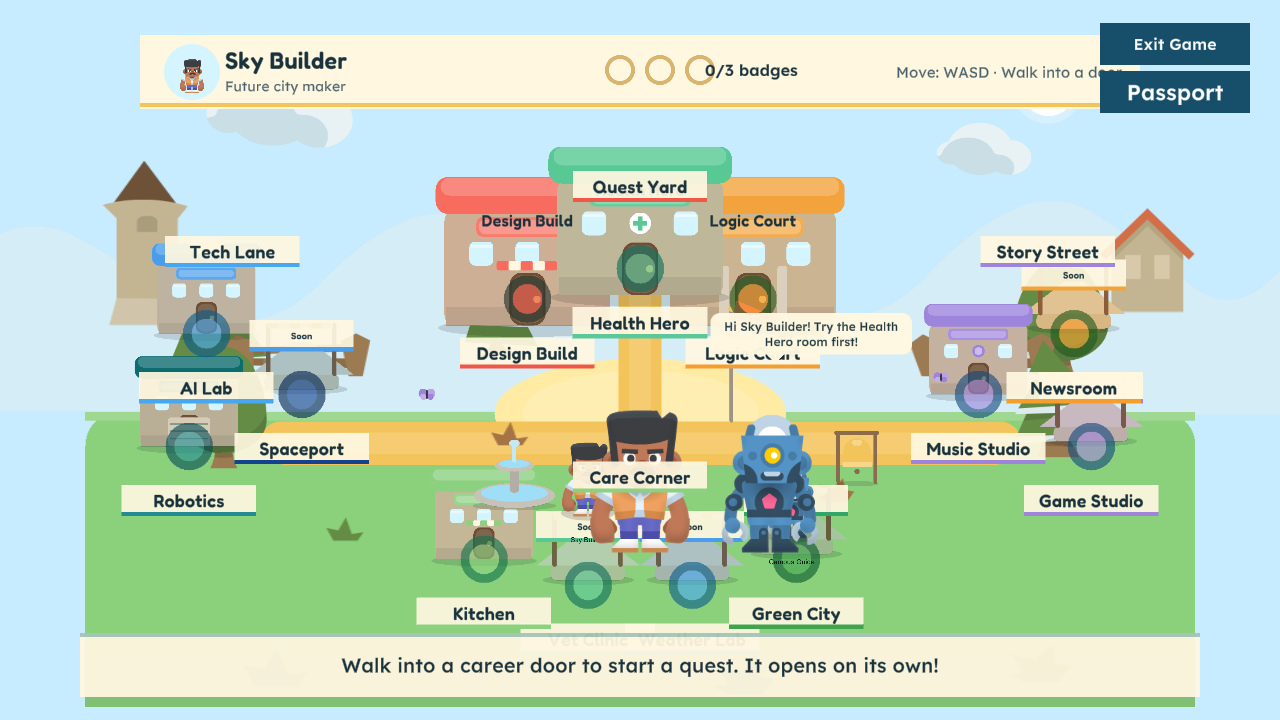
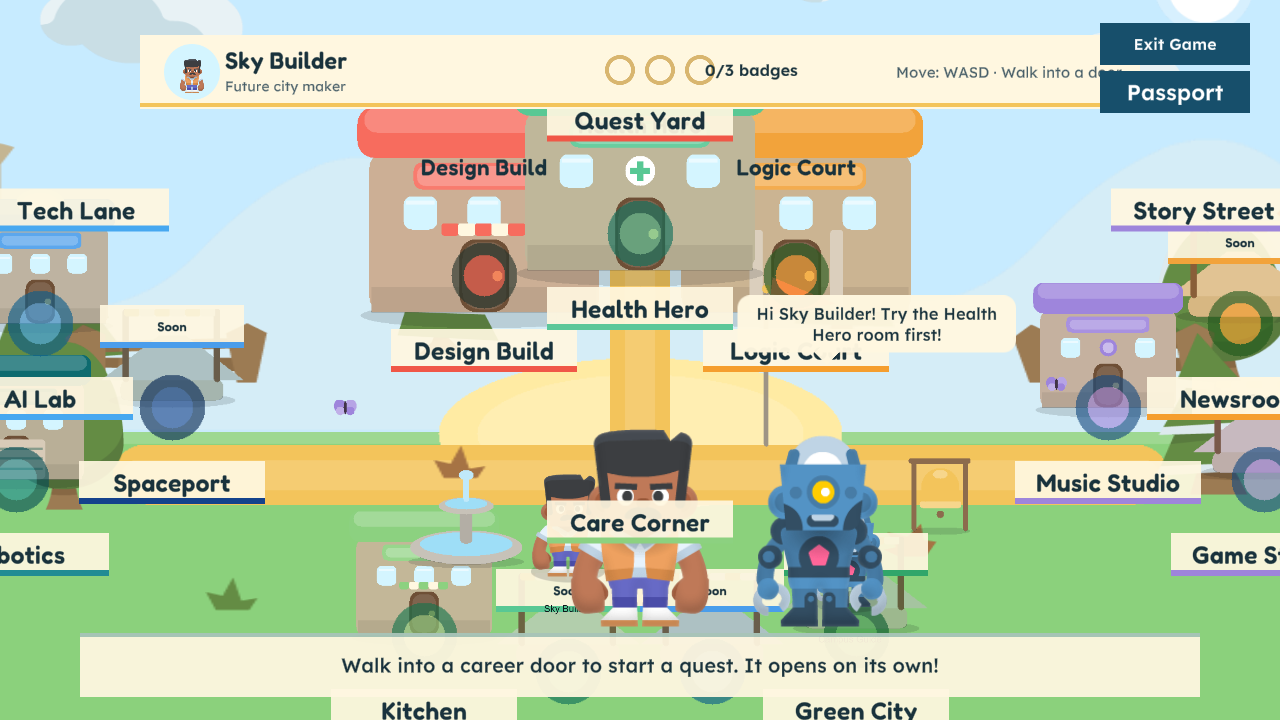
@ feat(campus): zoom-in + follow camera so the campus reads bigger (design review #1)
Players reported the environment was "too small to fit everything on the
screen in a practical way." The hub camera framed the whole 12.4-wide,
13-door campus at once (orthoSize 4.15, near-fixed: player.x * 0.2 clamped to
+-0.8), so every station and label shrank to fit one screen.

CameraFollowSettings.HubDefault now zooms in (orthoSize 4.15 -> 3.0, ~40%
bigger content) and tracks the player 1:1 across the campus (factor 0.2 -> 1.0,
clamp 0.8 -> 3.5, lerp 4 -> 5). CampusWorldBuilder.AddGround widens the grass
(11.2 -> 18, taller too) so the panned, zoomed view never reveals
sky-colored void at the edges; the +-3.5 clamp keeps the view inside it.

Verified: campus spawn capture shows a larger, player-centered campus with the
Quest Yard core readable, districts legible, edge stations to walk toward, and
grass filling every edge (no void). Combined EditMode 237/237, PlayMode
229/229.

Note: CameraDirectorPlayModeTests had two cases that hard-pin the hub framing
constants ("legacy framing preserved"); re-baselined their numeric
expectations to the new framing (test structure/behavior unchanged) since the
framing changed intentionally.

Known follow-up: horizontal follow only — the bottom Care Corner row sits low
near the instruction strip; vertical follow would frame it cleanly when
walking down (left for a polish pass / the #3-#4 plan).

@

diff --git a/Assets/_CareerQuest/Tests/PlayMode/CameraDirectorPlayModeTests.cs b/Assets/_CareerQuest/Tests/PlayMode/CameraDirectorPlayModeTests.cs
@@ -69,21 +69,21 @@ namespace CareerQuest.Tests
 
             Assert.That(director.ActiveMode, Is.EqualTo(CameraDirectorMode.Follow));
             Assert.That(director.IsRestored, Is.False);
-            Assert.That(director.Camera.orthographicSize, Is.EqualTo(4.15f).Within(0.001f));
+            Assert.That(director.Camera.orthographicSize, Is.EqualTo(3.0f).Within(0.001f));
 
             TickMany(director, 120, 0.05f);
             var position = director.Camera.transform.position;
-            Assert.That(position.x, Is.EqualTo(0.8f).Within(0.01f), "follow should clamp at the hub's +x edge");
+            Assert.That(position.x, Is.EqualTo(3.5f).Within(0.01f), "follow should clamp at the hub's +x edge");
             Assert.That(position.y, Is.EqualTo(0f).Within(0.001f));
             Assert.That(position.z, Is.EqualTo(-10f).Within(0.001f));
 
             target.transform.position = new Vector3(-10f, 0f, 0f);
             TickMany(director, 120, 0.05f);
-            Assert.That(director.Camera.transform.position.x, Is.EqualTo(-0.8f).Within(0.01f), "follow should clamp at the hub's -x edge");
+            Assert.That(director.Camera.transform.position.x, Is.EqualTo(-3.5f).Within(0.01f), "follow should clamp at the hub's -x edge");
 
             target.transform.position = new Vector3(2f, 0f, 0f);
             TickMany(director, 120, 0.05f);
-            Assert.That(director.Camera.transform.position.x, Is.EqualTo(0.4f).Within(0.01f), "inside the clamp the camera tracks x * 0.2");
+            Assert.That(director.Camera.transform.position.x, Is.EqualTo(2f).Within(0.01f), "inside the clamp the camera tracks the player x 1:1");
             yield return null;
         }
 
@@ -212,11 +212,11 @@ namespace CareerQuest.Tests
 
             Assert.That(director.ActiveMode, Is.EqualTo(CameraDirectorMode.Follow));
             Assert.That(director.Camera.orthographic, Is.True);
-            Assert.That(director.Camera.orthographicSize, Is.EqualTo(4.15f).Within(0.001f), "legacy hub framing size preserved");
+            Assert.That(director.Camera.orthographicSize, Is.EqualTo(3.0f).Within(0.001f), "campus framing size (zoomed-in follow)");
 
             TickMany(director, 120, 0.05f);
             var position = director.Camera.transform.position;
-            Assert.That(position.x, Is.EqualTo(0.6f).Within(0.01f), "legacy framing: clamp(target.x * 0.2, +-0.8)");
+            Assert.That(position.x, Is.EqualTo(3.0f).Within(0.01f), "campus follow: clamp(target.x * 1.0, +-3.5)");
             Assert.That(position.y, Is.EqualTo(0f).Within(0.001f));
             Assert.That(position.z, Is.EqualTo(-10f).Within(0.001f));
 

diff --git a/Assets/_CareerQuest/Scripts/World/CameraDirector.cs b/Assets/_CareerQuest/Scripts/World/CameraDirector.cs
@@ -40,13 +40,22 @@ namespace CareerQuest
         public float PlaneY;
         public float PlaneZ;
 
-        /// <summary>Framing that matches the legacy HubCameraRig behavior exactly.</summary>
+        /// <summary>
+        /// Campus follow framing (design review #1: "the environment is too small
+        /// to fit everything practically"). The legacy framing showed the whole
+        /// 12.4-wide campus at once (orthoSize 4.15, near-fixed: x * 0.2 clamped
+        /// to ±0.8), so 13 doors + labels shrank to fit one screen. This zooms in
+        /// (~40% bigger content) and tracks the player 1:1 across the campus,
+        /// clamped so the view stays inside the widened grass band
+        /// (CampusWorldBuilder.AddGround). At orthoSize 3.0 the view half-width is
+        /// ~5.33; the ±3.5 clamp keeps the far edge at ±8.83, inside the ±9 grass.
+        /// </summary>
         public static CameraFollowSettings HubDefault => new CameraFollowSettings
         {
-            OrthographicSize = 4.15f,
-            HorizontalFactor = 0.2f,
-            HorizontalClamp = 0.8f,
-            LerpSpeed = 4f,
+            OrthographicSize = 3.0f,
+            HorizontalFactor = 1f,
+            HorizontalClamp = 3.5f,
+            LerpSpeed = 5f,
             PlaneY = 0f,
             PlaneZ = -10f
         };

diff --git a/Assets/_CareerQuest/Scripts/World/CampusWorldBuilder.cs b/Assets/_CareerQuest/Scripts/World/CampusWorldBuilder.cs
@@ -36,7 +36,13 @@ namespace CareerQuest
 
         public void AddGround()
         {
-            AddShape("CampusGrass", CampusSpriteKind.Square, new Vector2(0f, -2.25f), new Vector2(11.2f, 3.25f), CampusWorldPalette.Grass, 0);
+            // Design review #1: widened from 11.2 to 18 so the zoomed-in,
+            // player-following campus camera (CameraFollowSettings.HubDefault)
+            // never pans past the grass edge into sky-colored void. The ±3.5
+            // camera clamp at orthoSize 3.0 reaches x ±8.83; the ±9 grass covers
+            // it with margin. Taller too (3.25 -> 3.8) so the lower districts
+            // sit on grass when the view drops to its bottom.
+            AddShape("CampusGrass", CampusSpriteKind.Square, new Vector2(0f, -2.4f), new Vector2(18f, 3.8f), CampusWorldPalette.Grass, 0);
         }
 
         public void AddPath(Vector2 position, Vector2 size, float rotation)
